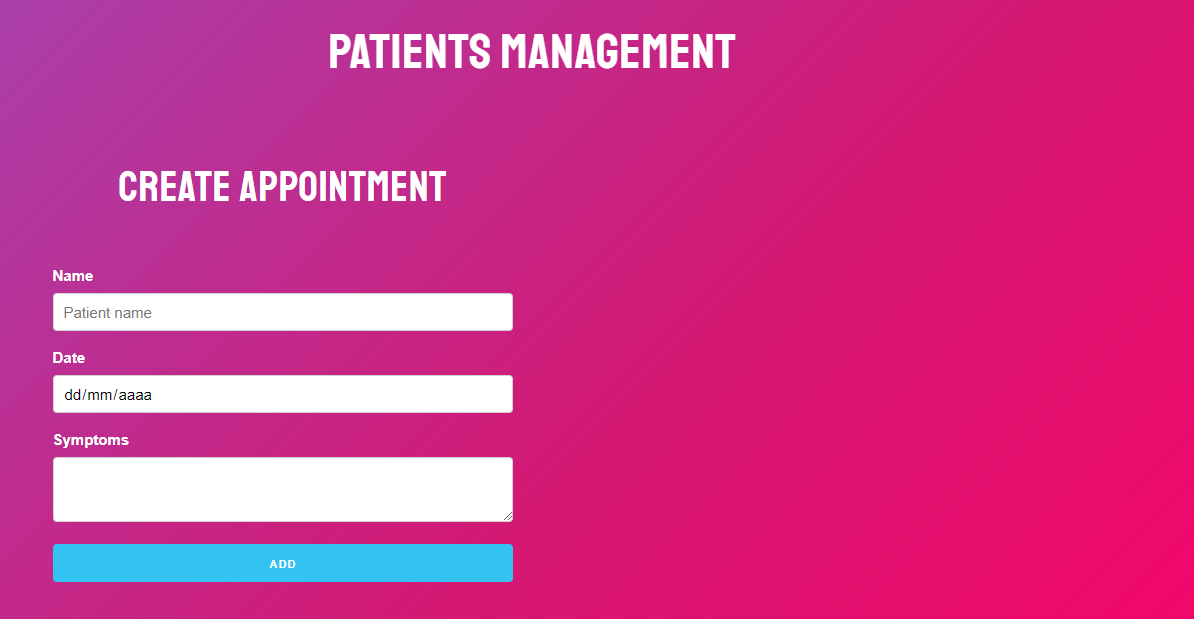
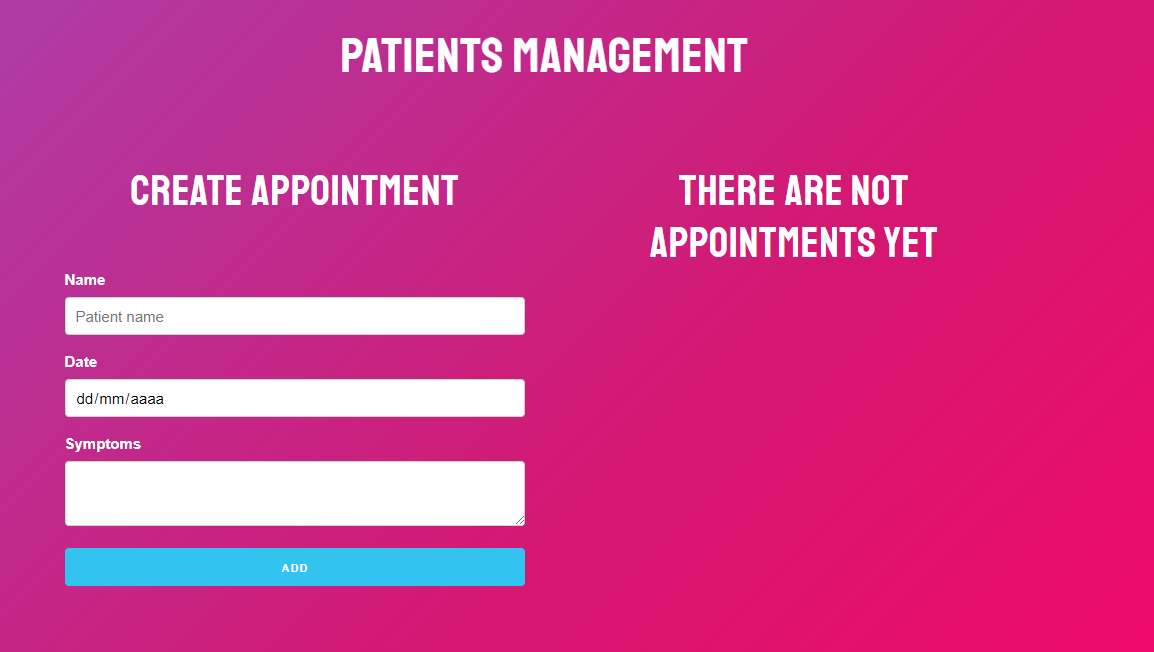
added conditional title in the list of patients section

diff --git a/src/App.js b/src/App.js
@@ -21,16 +21,21 @@ function App() {
     setAppointment(currentState);
   };
 
+  // cargar condicionalmente un título
+  const title = Object.keys(appointments).length === 0 ? 'There are not appointments yet' : 'List of appointments';
+
   return (
     <Fragment>
       <h1>Patients management</h1>
       <div className="container">
         <div className="row">
           <div className="one-half column">
+            <h2>Create appointment</h2>
             <Form
               addAppointment={addAppointment} />
           </div>
           <div className="one-half column">
+            <h2>{title}</h2>
             {appointments.map((currentAppointment, index) => (
               <Appointment 
                 key={index}

diff --git a/src/components/Form.js b/src/components/Form.js
@@ -30,7 +30,6 @@ function Form({ addAppointment }) {
     return (
         <Fragment>
 
-            <h2>Create appointment</h2>
             <form
                 onSubmit={saveDate}>
 
